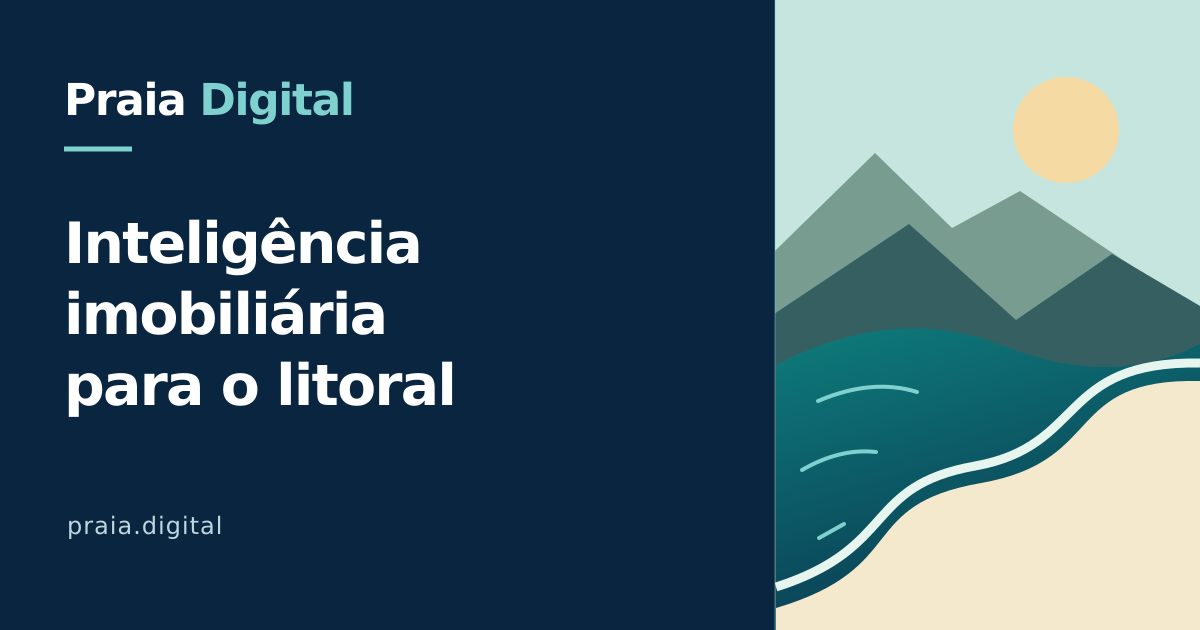
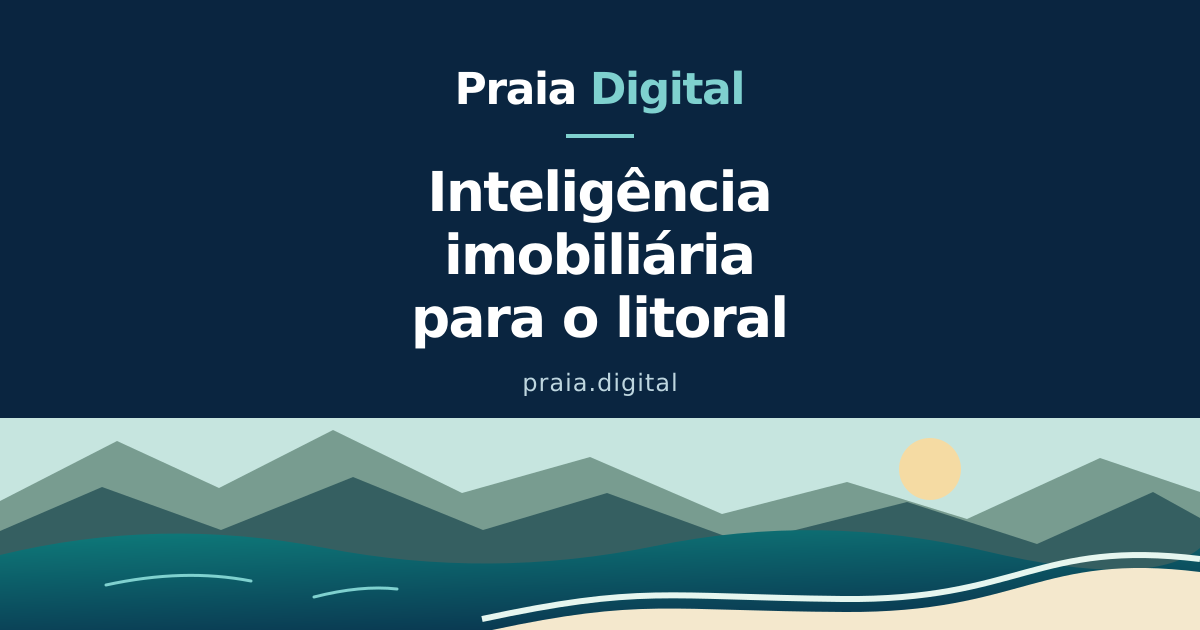
design: center homepage social artwork and preserve crop safe area

diff --git a/tests/test_homepage_content.py b/tests/test_homepage_content.py
@@ -89,5 +89,11 @@ class HomepageSocialPreview(unittest.TestCase):
         svg=(ROOT/'assets/social/praia-digital-institucional-v1.svg').read_text()
         self.assertIn('Inteligência imobiliária para o litoral',svg)
         self.assertNotIn('<image',svg) # Original vector artwork; no unlicensed external photography.
+        import xml.etree.ElementTree as ET
+        root=ET.fromstring(svg)
+        texts=root.findall('.//{http://www.w3.org/2000/svg}text')
+        self.assertEqual(len(texts),5)
+        self.assertTrue(all(t.get('x')=='600' for t in texts))
+        self.assertIn('text-anchor="middle"',svg)
 
 if __name__=='__main__': unittest.main()
